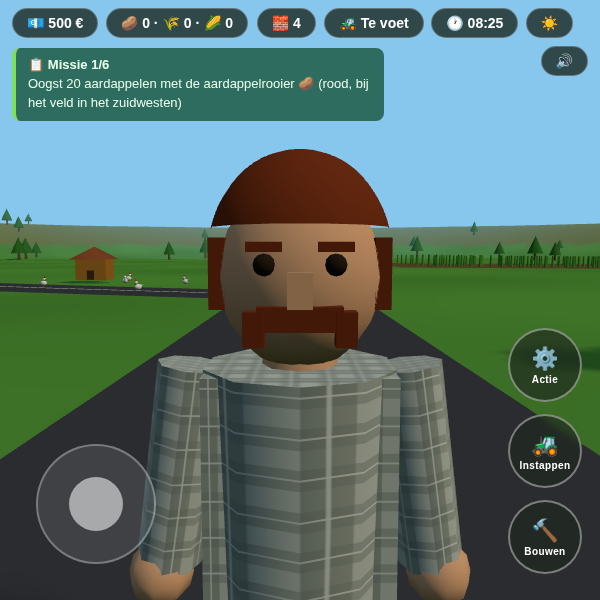
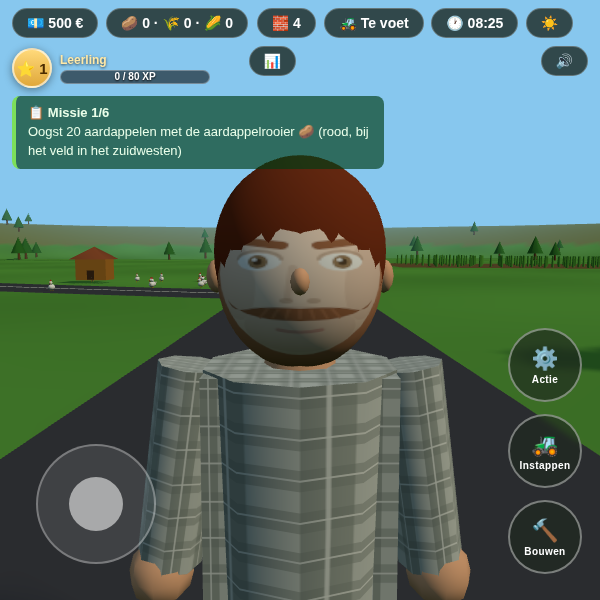
Personnage plus réaliste : visage peint sur texture
Refonte de la tête pour un rendu proche d'une vraie personne :
- Visage peint sur une texture canvas mappée sur la sphère de la tête
  (dégradé de peau, modelé des joues/tempes, barbe naissante)
- Yeux réalistes (blanc, iris marron, pupille, reflet, paupière)
- Sourcils inclinés, nez ombré, moustache en guidon marquée, lèvres
- Volume de cheveux à l'arrière, nez et oreilles en relief léger
- Remplace les traits en cubes de la version précédente

Claude-Session: https://claude.ai/code/session_01DwCG8YEj6A6GqMB6GLeeGx

diff --git a/src/vehicles.js b/src/vehicles.js
@@ -633,6 +633,119 @@ function plaidMaterial() {
   return _plaidMat;
 }
 
+// Visage peint sur une texture, appliqué à la sphère de la tête.
+// Repère UV de SphereGeometry : u=0.25 -> avant (+z), v croît du sommet vers le bas.
+let _faceTex = null;
+function faceTexture() {
+  if (_faceTex) return _faceTex;
+  const W = 256, H = 256;
+  const c = document.createElement('canvas');
+  c.width = W; c.height = H;
+  const x = c.getContext('2d');
+  const cx = W * 0.25;              // centre du visage (avant de la tête)
+  const skin = '#e0a685', skinDark = '#c98c68', skinLight = '#f0bd9a';
+  const hairCol = '#7a3218', hairDark = '#5c2410';
+
+  // fond = cheveux (couvre côtés, arrière et sommet)
+  x.fillStyle = hairCol;
+  x.fillRect(0, 0, W, H);
+
+  // ovale du visage (peau) avec dégradé de volume
+  const faceCx = cx, faceCy = 128, faceRx = 46, faceRy = 70;
+  const grd = x.createRadialGradient(faceCx - 10, faceCy - 14, 12, faceCx, faceCy, 74);
+  grd.addColorStop(0, skinLight);
+  grd.addColorStop(0.55, skin);
+  grd.addColorStop(1, skinDark);
+  x.save();
+  x.beginPath();
+  x.ellipse(faceCx, faceCy, faceRx, faceRy, 0, 0, Math.PI * 2);
+  x.clip();
+  x.fillStyle = grd;
+  x.fillRect(faceCx - faceRx, faceCy - faceRy, faceRx * 2, faceRy * 2);
+
+  // ombres de modelé (joues, tempes, mâchoire)
+  x.fillStyle = 'rgba(150,95,65,0.28)';
+  x.beginPath(); x.ellipse(faceCx - 34, faceCy + 6, 14, 30, 0, 0, Math.PI * 2); x.fill();
+  x.beginPath(); x.ellipse(faceCx + 34, faceCy + 6, 14, 30, 0, 0, Math.PI * 2); x.fill();
+  // barbe naissante sur la mâchoire (discrète)
+  x.fillStyle = 'rgba(90,45,25,0.14)';
+  x.beginPath(); x.ellipse(faceCx, faceCy + 44, 32, 22, 0, 0, Math.PI * 2); x.fill();
+  x.restore();
+
+  // implantation des cheveux (front + houppe)
+  x.fillStyle = hairCol;
+  x.beginPath();
+  x.moveTo(faceCx - 48, faceCy - 30);
+  x.quadraticCurveTo(faceCx - 40, faceCy - 78, faceCx, faceCy - 66);   // tempe G -> pic
+  x.quadraticCurveTo(faceCx + 40, faceCy - 78, faceCx + 48, faceCy - 30);
+  x.quadraticCurveTo(faceCx, faceCy - 58, faceCx - 48, faceCy - 30);   // ligne de front (léger pic central)
+  x.fill();
+  x.fillStyle = hairDark;
+  x.fillRect(faceCx - 50, faceCy - 92, 100, 22); // masse au sommet
+
+  // sourcils (auburn, légèrement inclinés)
+  x.strokeStyle = hairDark; x.lineWidth = 6; x.lineCap = 'round';
+  for (const s of [-1, 1]) {
+    x.beginPath();
+    x.moveTo(faceCx + s * 8, faceCy - 22);
+    x.lineTo(faceCx + s * 30, faceCy - 26);
+    x.stroke();
+  }
+
+  // yeux (blanc, iris marron, pupille, reflet)
+  for (const s of [-1, 1]) {
+    const ex = faceCx + s * 19, ey = faceCy - 10;
+    x.fillStyle = '#f4efe8';
+    x.beginPath(); x.ellipse(ex, ey, 11, 6.5, 0, 0, Math.PI * 2); x.fill();
+    x.fillStyle = '#5a3a1e';
+    x.beginPath(); x.arc(ex, ey, 5, 0, Math.PI * 2); x.fill();
+    x.fillStyle = '#1a1008';
+    x.beginPath(); x.arc(ex, ey, 2.4, 0, Math.PI * 2); x.fill();
+    x.fillStyle = '#ffffff';
+    x.beginPath(); x.arc(ex - 1.6, ey - 1.6, 1.2, 0, Math.PI * 2); x.fill();
+    // paupière supérieure
+    x.strokeStyle = 'rgba(120,80,55,0.6)'; x.lineWidth = 2;
+    x.beginPath(); x.ellipse(ex, ey - 2, 11, 6, 0, Math.PI, Math.PI * 2); x.stroke();
+  }
+
+  // nez (arête ombrée + narines)
+  x.strokeStyle = 'rgba(150,95,65,0.35)'; x.lineWidth = 4;
+  x.beginPath(); x.moveTo(faceCx - 3, faceCy - 6); x.lineTo(faceCx - 5, faceCy + 16); x.stroke();
+  x.fillStyle = 'rgba(120,75,50,0.5)';
+  x.beginPath(); x.ellipse(faceCx - 6, faceCy + 18, 3, 2, 0, 0, Math.PI * 2); x.fill();
+  x.beginPath(); x.ellipse(faceCx + 6, faceCy + 18, 3, 2, 0, 0, Math.PI * 2); x.fill();
+  x.fillStyle = 'rgba(240,190,155,0.5)';
+  x.beginPath(); x.ellipse(faceCx, faceCy + 14, 4, 6, 0, 0, Math.PI * 2); x.fill(); // pointe éclairée
+
+  // moustache (guidon épais et sombre) sous le nez
+  x.fillStyle = hairDark;
+  x.beginPath();
+  x.moveTo(faceCx, faceCy + 24);
+  x.quadraticCurveTo(faceCx - 16, faceCy + 22, faceCx - 26, faceCy + 26);
+  x.quadraticCurveTo(faceCx - 38, faceCy + 30, faceCx - 40, faceCy + 20); // pointe G recourbée vers le haut
+  x.quadraticCurveTo(faceCx - 30, faceCy + 34, faceCx, faceCy + 34);      // bas de l'aile G
+  x.quadraticCurveTo(faceCx + 30, faceCy + 34, faceCx + 40, faceCy + 20); // aile D + pointe
+  x.quadraticCurveTo(faceCx + 38, faceCy + 30, faceCx + 26, faceCy + 26);
+  x.quadraticCurveTo(faceCx + 16, faceCy + 22, faceCx, faceCy + 24);
+  x.fill();
+  // reflets/mèches de la moustache
+  x.strokeStyle = hairCol; x.lineWidth = 1.5;
+  for (let i = -3; i <= 3; i++) {
+    x.beginPath();
+    x.moveTo(faceCx + i * 5, faceCy + 25);
+    x.lineTo(faceCx + i * 6.5, faceCy + 32);
+    x.stroke();
+  }
+
+  // bouche (lèvres) sous la moustache
+  x.strokeStyle = '#a85a4a'; x.lineWidth = 3;
+  x.beginPath(); x.moveTo(faceCx - 11, faceCy + 42); x.quadraticCurveTo(faceCx, faceCy + 46, faceCx + 11, faceCy + 42); x.stroke();
+
+  const tex = new THREE.CanvasTexture(c);
+  _faceTex = tex;
+  return tex;
+}
+
 export function buildFarmer() {
   const g = new THREE.Group();
   const skin = mat(0xe4a980);
@@ -688,53 +801,38 @@ export function buildFarmer() {
     g.add(hand);
   }
 
-  // cou + tête
-  const neck = new THREE.Mesh(new THREE.CylinderGeometry(0.11, 0.13, 0.14, 8), skin);
-  neck.position.y = 2.08;
+  // cou + tête (visage peint sur texture)
+  const neck = new THREE.Mesh(new THREE.CylinderGeometry(0.1, 0.13, 0.16, 8), skin);
+  neck.position.y = 2.06;
   g.add(neck);
-  const head = shadow(new THREE.Mesh(new THREE.SphereGeometry(0.27, 14, 12), skin));
-  head.scale.set(1, 1.12, 1.02);
-  head.position.y = 2.33;
+  const head = shadow(new THREE.Mesh(
+    new THREE.SphereGeometry(0.28, 28, 24),
+    new THREE.MeshLambertMaterial({ map: faceTexture() })
+  ));
+  head.scale.set(0.96, 1.12, 1.0);
+  head.position.y = 2.34;
   g.add(head);
 
-  // cheveux : calotte sur le sommet (dégage le front) + houppe
-  const hairCap = new THREE.Mesh(new THREE.SphereGeometry(0.3, 14, 12, 0, Math.PI * 2, 0, Math.PI * 0.42), hair);
-  hairCap.scale.set(1, 1.1, 1.04);
-  hairCap.position.y = 2.4;
-  g.add(hairCap);
-  const quiff = new THREE.Mesh(new THREE.BoxGeometry(0.2, 0.11, 0.12), hair);
-  quiff.position.set(0, 2.56, 0.16);
-  quiff.rotation.x = -0.5;
-  g.add(quiff);
-  // pattes/tempes
-  for (const sx of [-1, 1]) {
-    const sideburn = new THREE.Mesh(new THREE.BoxGeometry(0.05, 0.22, 0.12), hair);
-    sideburn.position.set(sx * 0.255, 2.34, 0.06);
-    g.add(sideburn);
-  }
-
-  // moustache (bien visible sous le nez)
-  const stache = new THREE.Mesh(new THREE.BoxGeometry(0.24, 0.07, 0.08), hair);
-  stache.position.set(0, 2.22, 0.25);
-  g.add(stache);
-  for (const sx of [-1, 1]) {
-    const tip = new THREE.Mesh(new THREE.BoxGeometry(0.06, 0.1, 0.07), hair);
-    tip.position.set(sx * 0.13, 2.19, 0.245);
-    g.add(tip);
-  }
-  // nez
-  const nose = new THREE.Mesh(new THREE.BoxGeometry(0.07, 0.1, 0.07), skin);
-  nose.position.set(0, 2.3, 0.27);
+  // volume de cheveux à l'arrière/au sommet (la texture gère le devant)
+  const backHair = new THREE.Mesh(
+    new THREE.SphereGeometry(0.29, 20, 16, 0, Math.PI * 2, 0, Math.PI * 0.62),
+    hair
+  );
+  backHair.scale.set(0.98, 1.1, 1.02);
+  backHair.position.set(0, 2.4, -0.03);
+  backHair.rotation.x = -0.15;
+  g.add(backHair);
+  // nez en relief (discret, par-dessus la texture)
+  const nose = new THREE.Mesh(new THREE.SphereGeometry(0.035, 8, 6), skin);
+  nose.scale.set(0.8, 1.1, 1.1);
+  nose.position.set(0, 2.325, 0.275);
   g.add(nose);
-
-  // yeux + sourcils (au-dessus de la moustache, sous le front dégagé)
+  // oreilles
   for (const sx of [-1, 1]) {
-    const eye = new THREE.Mesh(new THREE.SphereGeometry(0.032, 8, 6), mat(0x2a2018));
-    eye.position.set(sx * 0.1, 2.37, 0.255);
-    g.add(eye);
-    const brow = new THREE.Mesh(new THREE.BoxGeometry(0.1, 0.028, 0.04), hair);
-    brow.position.set(sx * 0.1, 2.42, 0.255);
-    g.add(brow);
+    const ear = new THREE.Mesh(new THREE.SphereGeometry(0.055, 8, 6), skin);
+    ear.scale.set(0.6, 1, 0.8);
+    ear.position.set(sx * 0.27, 2.33, 0.02);
+    g.add(ear);
   }
 
   return g;
